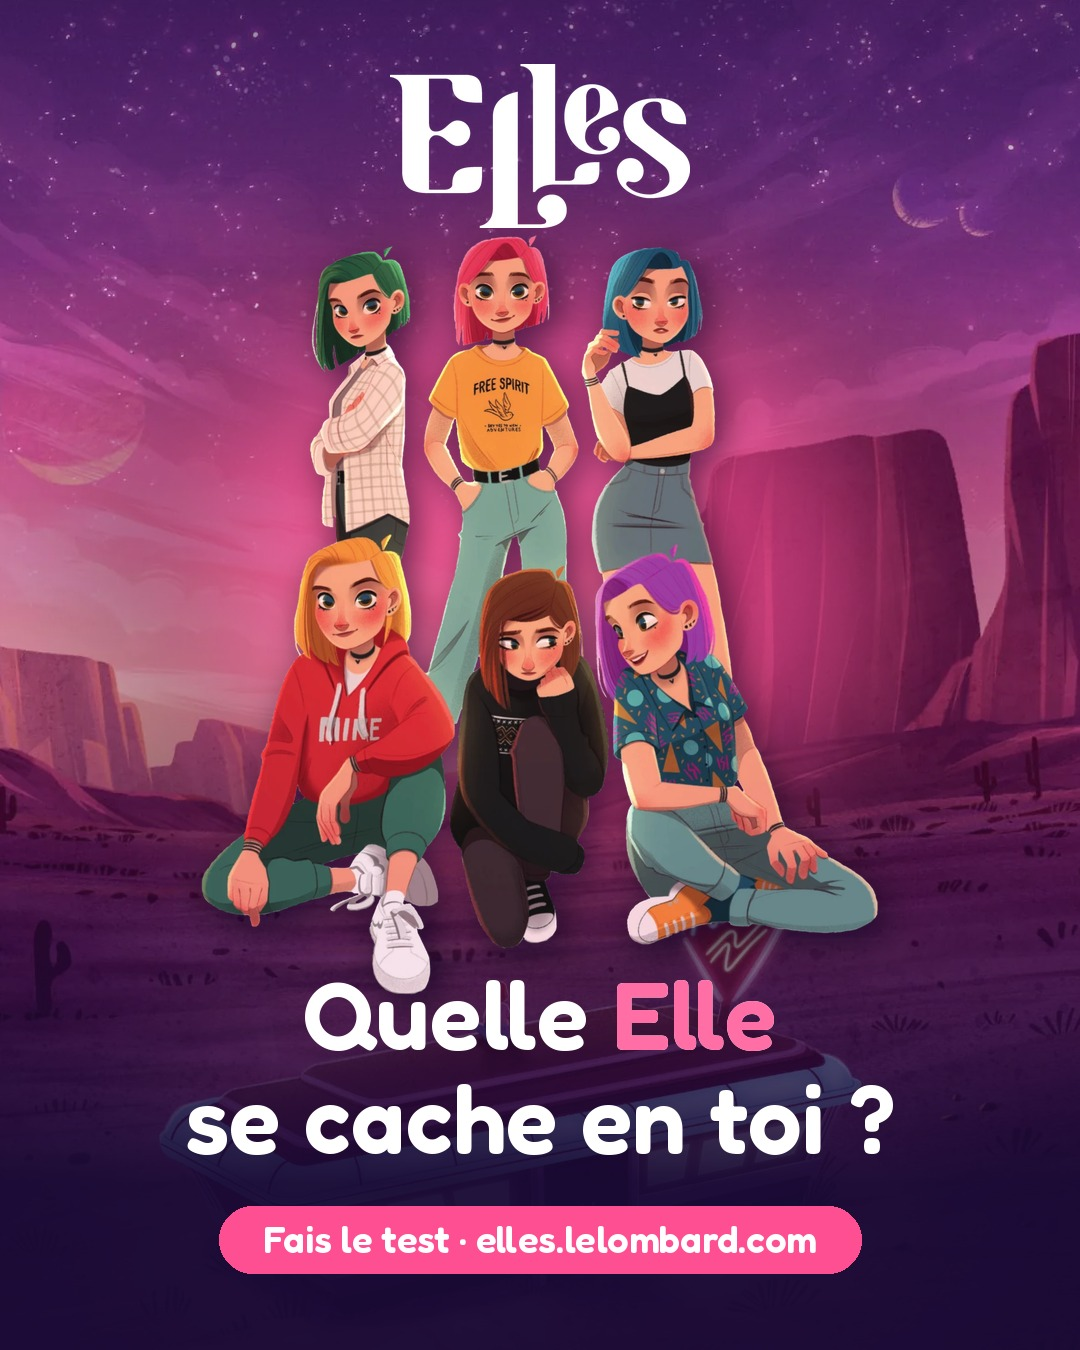
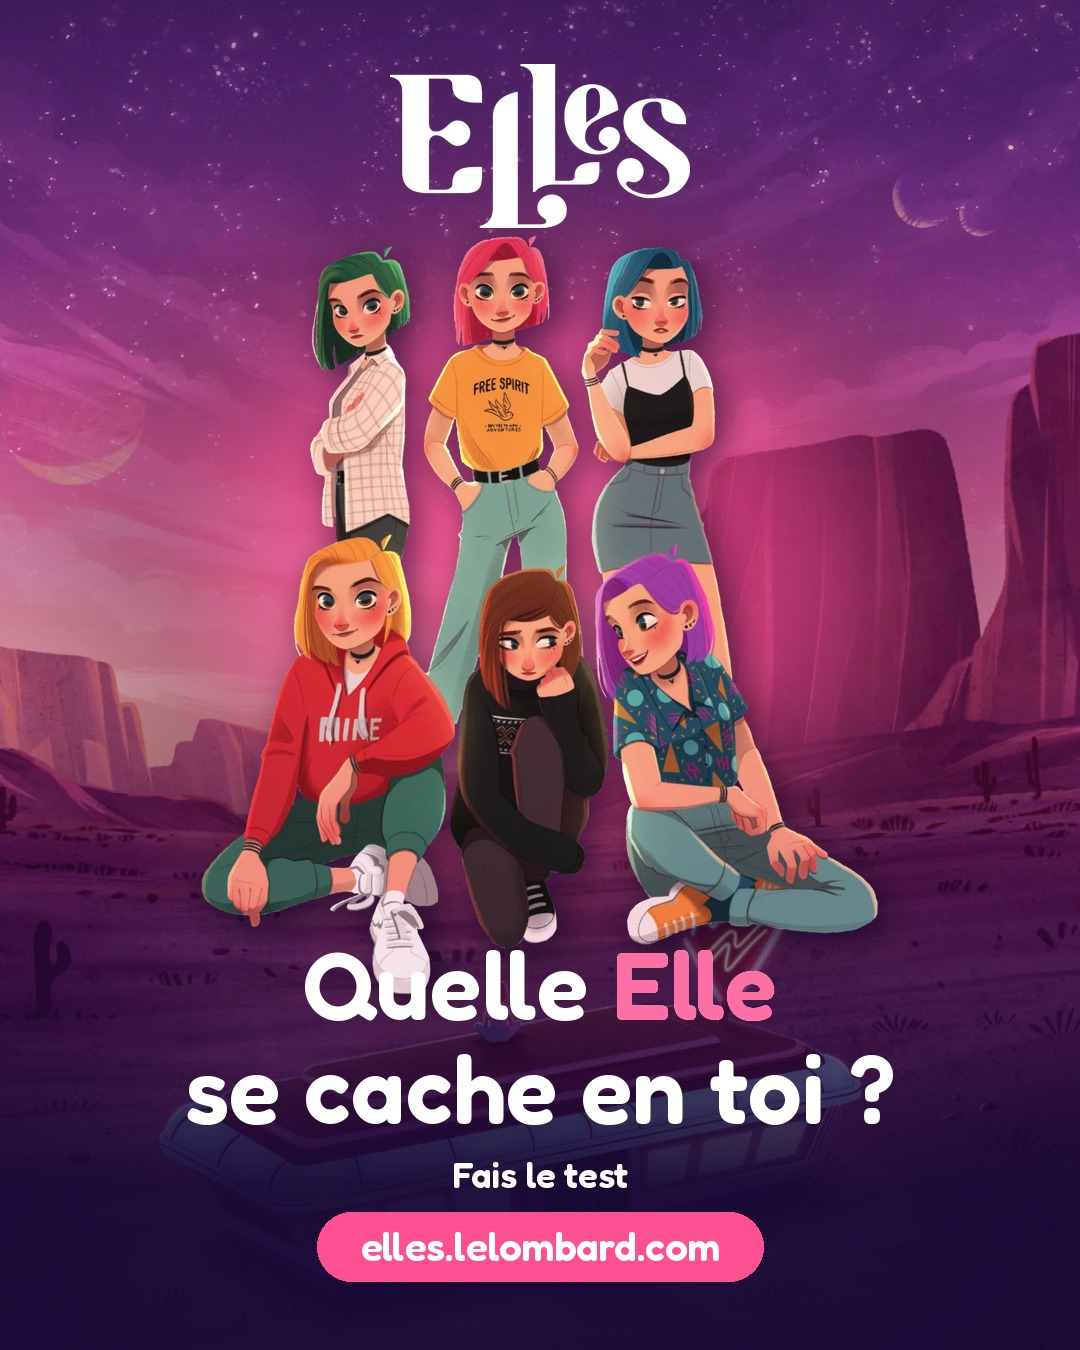
Image unique : URL seule dans la pastille, « Fais le test » au-dessus
Claude-Session: https://claude.ai/code/session_01JYCcVS9zgu5A4NHUxSrqd3

Changed region(s): [[0.1528, 0.6844, 0.7944, 0.9644], [0.7944, 0.7778, 0.825, 0.8711]]

diff --git a/elles-quiz/tools/make_social.py b/elles-quiz/tools/make_social.py
@@ -73,9 +73,9 @@ def group_slide(name, cta, with_dots=None, sub=None):
     g = fit(Image.open("img/elles-groupe.webp").convert("RGBA"), 900, 760)
     halo(im, (255, 79, 147), (140, 240, 940, 900)); paste(im, g, (W - g.width) // 2, 235)
     logo(im); d = ImageDraw.Draw(im, "RGBA")
-    title(d, 955, 96)
-    if sub: center(d, 1178, sub, F(nun, 34), (255, 255, 255))
-    pill(d, 1206 if not sub else 1232, cta, F(fred, 38))
+    title(d, 925 if sub else 955, 96)
+    if sub: center(d, 1152, sub, F(fred, 36), (255, 255, 255))
+    pill(d, 1206 if not sub else 1212, cta, F(fred, 40))
     if with_dots is not None: dots(d, with_dots)
     im.convert("RGB").save(f"social/{name}", quality=92); print(name)
 
@@ -103,4 +103,4 @@ center(d, 1222, f"Tome 4 · Intemporelle(s) · en librairie", F(nun, 32), (255, 
 im.convert("RGB").save("social/carrousel_8_fais-le-test.jpg", quality=92); print(8)
 
 # ---------- Image unique
-group_slide("photo_unique.jpg", "Fais le test · elles.lelombard.com")
+group_slide("photo_unique.jpg", "elles.lelombard.com", sub="Fais le test")
